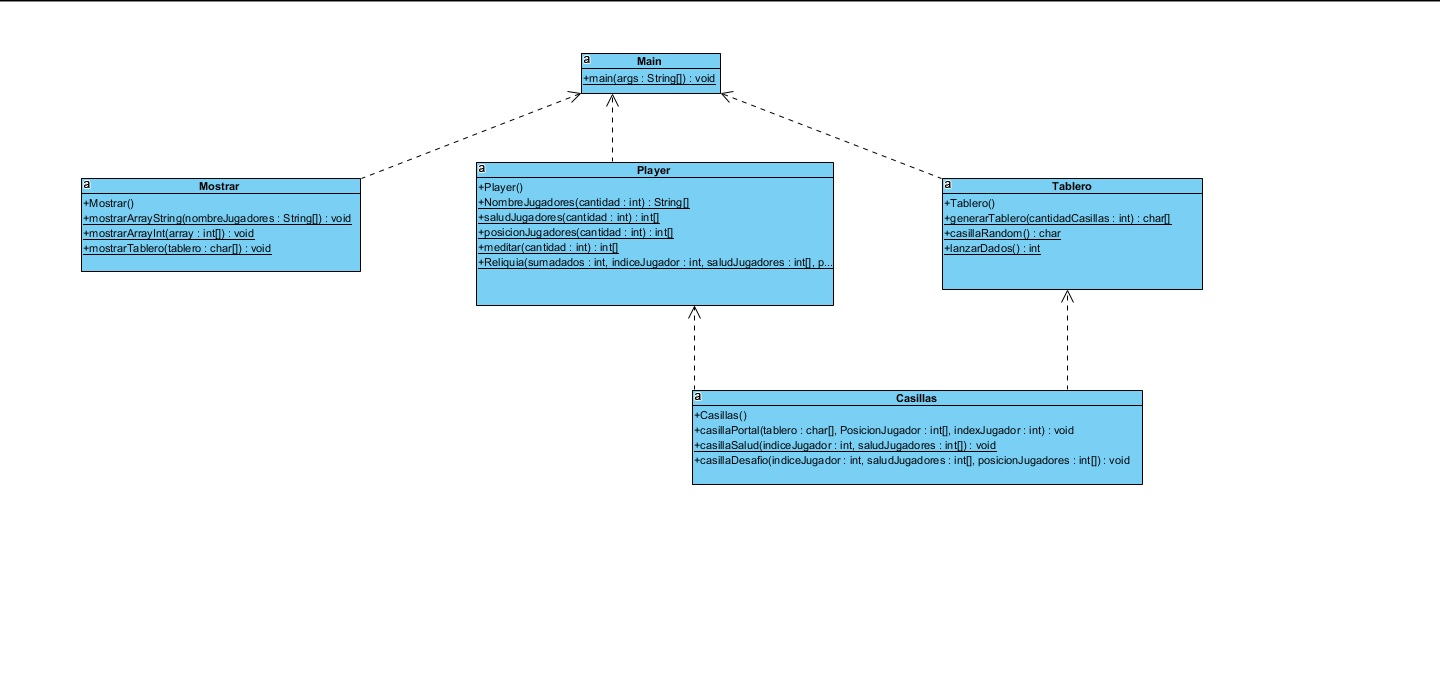
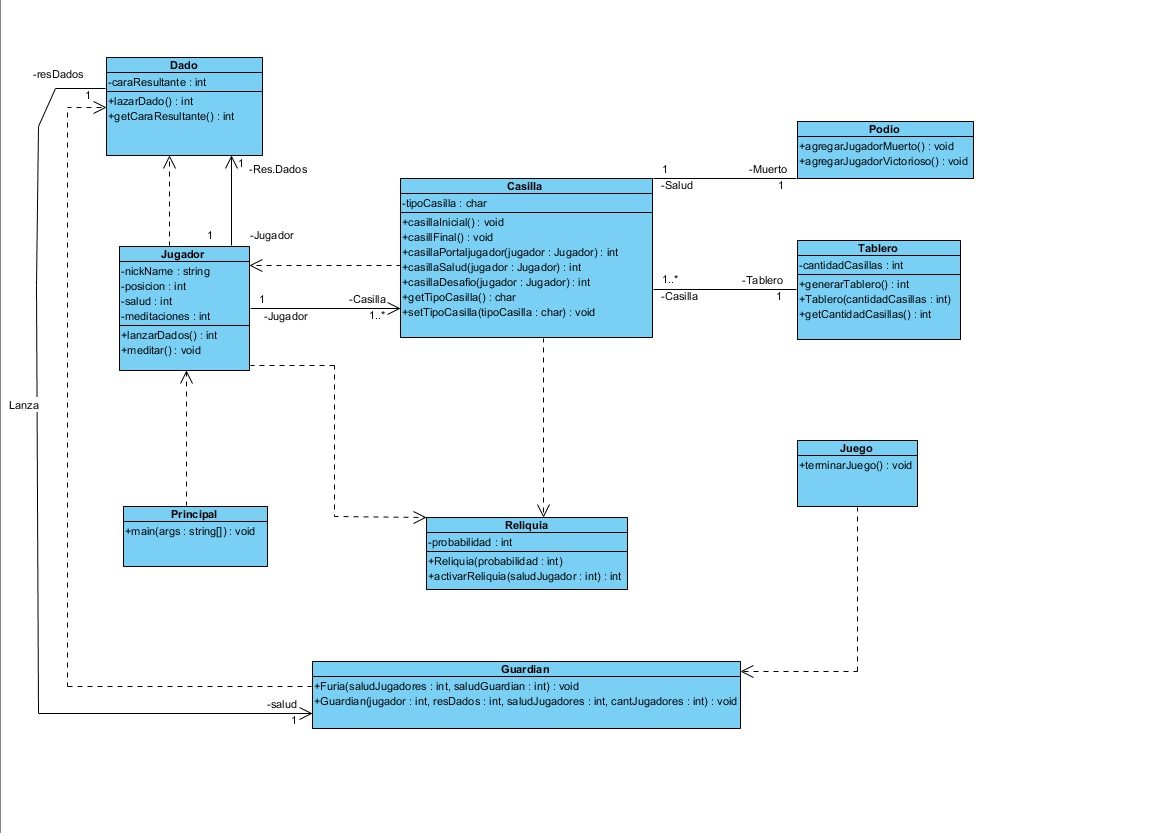
Add files via upload

diff --git a/Guardian.java b/Guardian.java
@@ -1,0 +1,37 @@
+package proyectoayudantia;
+
+public class Guardian {
+
+    public Guardian() {
+    }
+
+    private void Furia(int saludJugadores[], int saludGuardian) {
+        int Random2 = (int) (Math.random() * 50) + 1;
+        if (Random2 == 3) {
+            for (int i = 0; i < saludJugadores.length; i++) {
+                saludJugadores[i] -= 1;
+            }
+            saludGuardian += 2;
+        }
+
+    }
+
+    public void Guardian(int resDados, int saludJugadores[], int cantJugadores, int jugador) {
+        int saludGuardian = cantJugadores * 15;
+        Guardian furia = new Guardian();
+        furia.Furia(saludJugadores, saludGuardian);
+        if (resDados == 12) {
+            saludGuardian -= 3;
+        } else {
+            saludGuardian -= 1;
+        }
+        if (saludGuardian == 0) {
+            System.out.println("El jugador " + jugador + " es el ganador.");
+
+            System.exit(0);
+
+        }
+
+    }
+
+}
